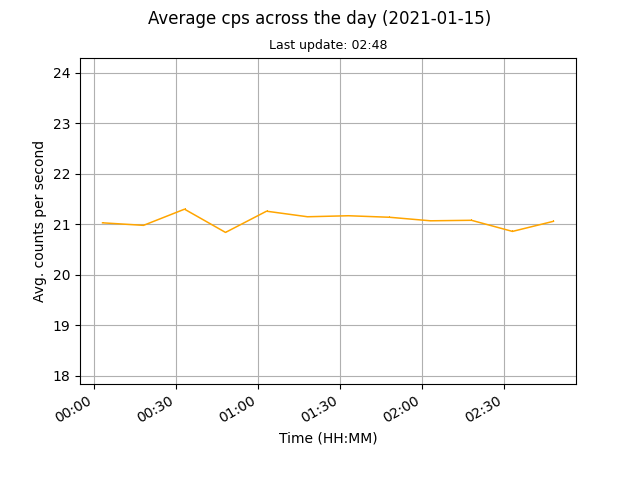
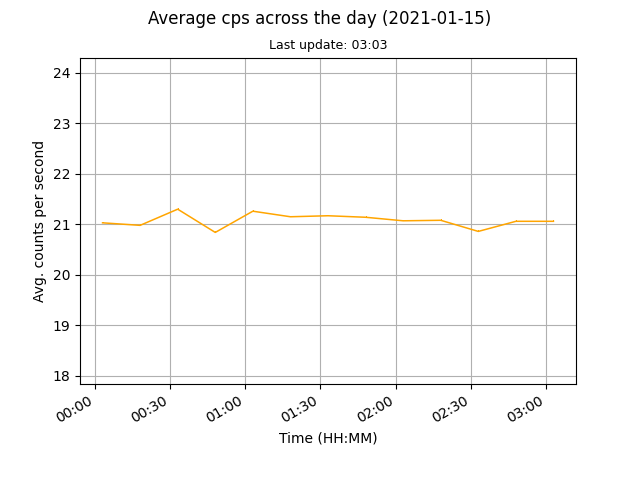
auto data update

diff --git a/docs/index.html b/docs/index.html
@@ -46,7 +46,7 @@
 	<br>
 	
 	<p>Current counts per second (cps): 21.06</p>
-	<p>Last update: 2021-01-15, 02:48</p>
+	<p>Last update: 2021-01-15, 03:03</p>
 
 	<p><a href="images/monthly.png"><img src="images/monthly.png" alt="Mothly avg cps data"></a><a href="images/daily.png"><img src="images/daily.png" alt="Daily avg cps data"></a></p>
 	
